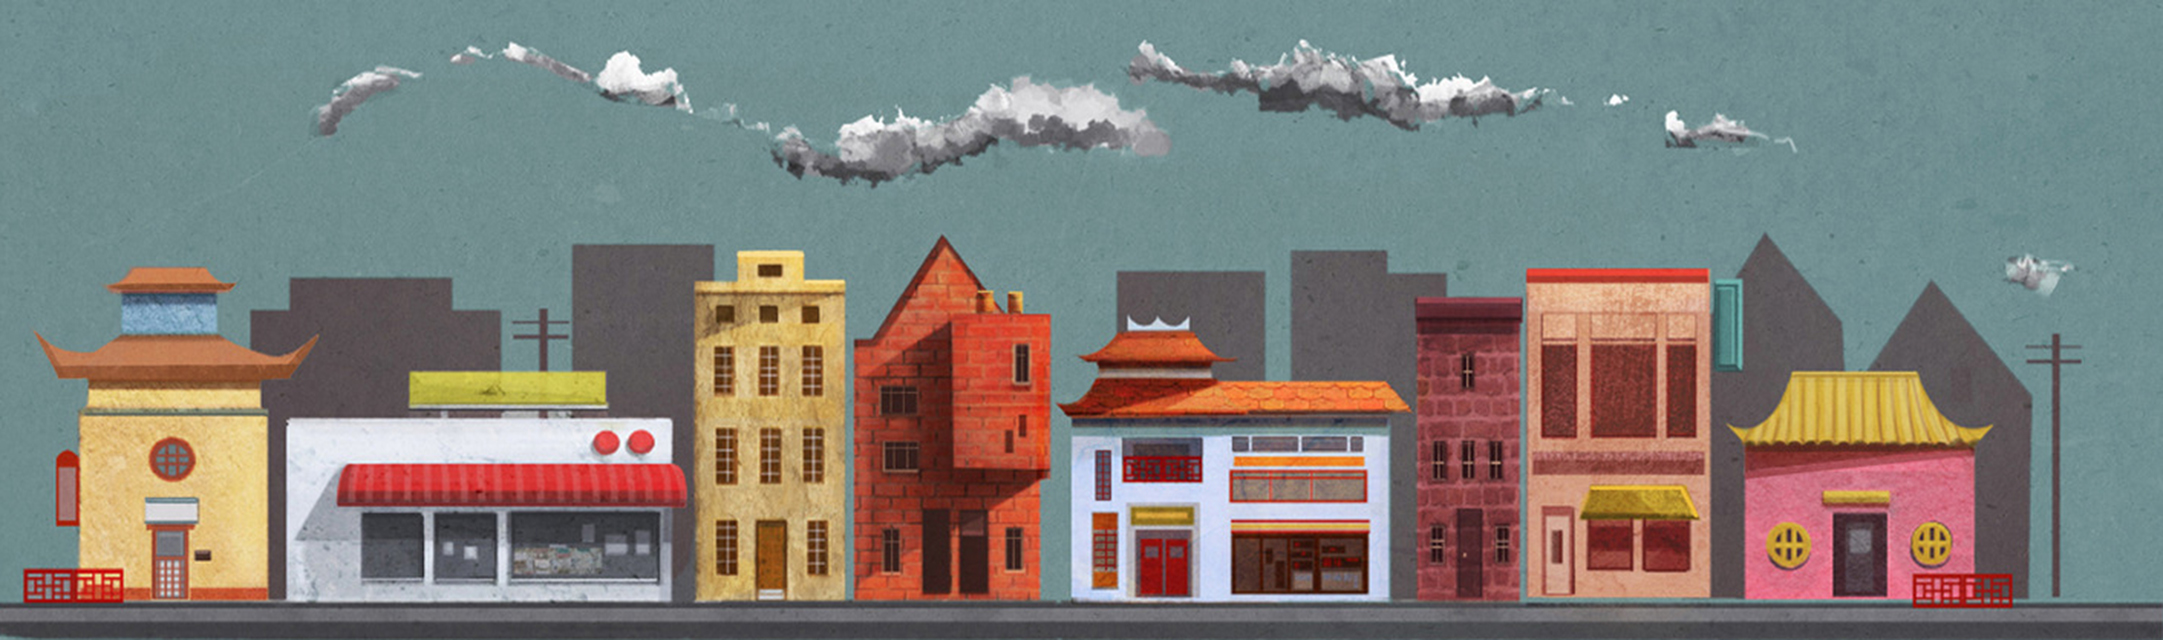
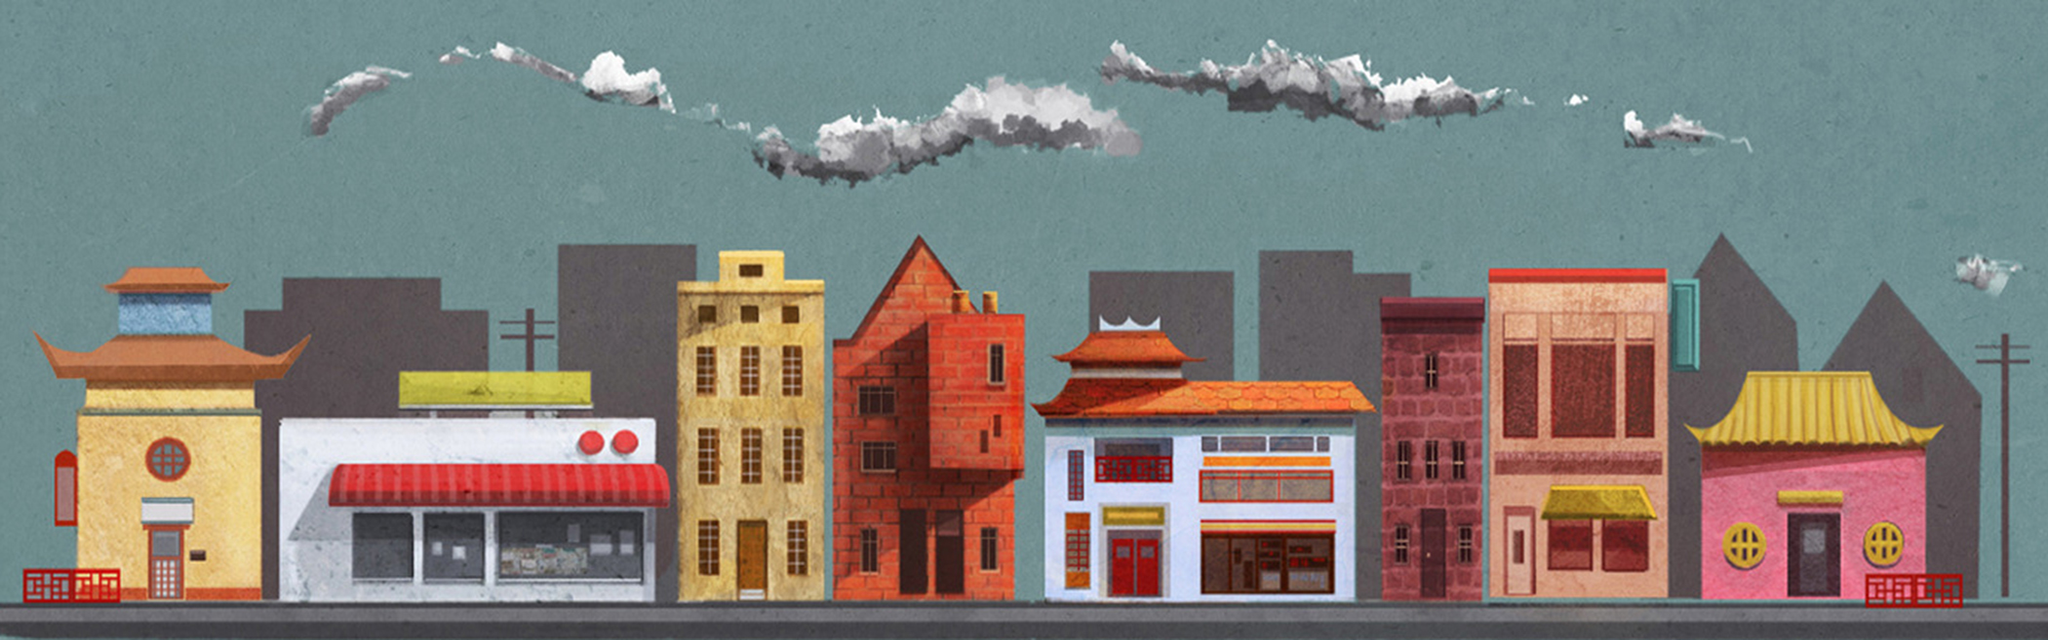
Bug Fixes
Repositioned foods and fixed bg image dimensions

diff --git a/Projectfiles/Scenes/Gameplay/Objects/Monsters/Sandwich.m b/Projectfiles/Scenes/Gameplay/Objects/Monsters/Sandwich.m
@@ -33,7 +33,7 @@
 	CGSize spriteSize = [self contentSize];
 	float xPos = screenRect.size.width + spriteSize.width * 0.5f;
     //	float yPos = CCRANDOM_0_1() * (0.25 * screenRect.size.height - spriteSize.height) + spriteSize.height * 0.5f;
-    float yPos = 0.25 * screenRect.size.height - spriteSize.height;
+    float yPos = 0.19 * screenRect.size.height - spriteSize.height;
 	self.position = CGPointMake(xPos, yPos);
     
     self.visible = YES;
